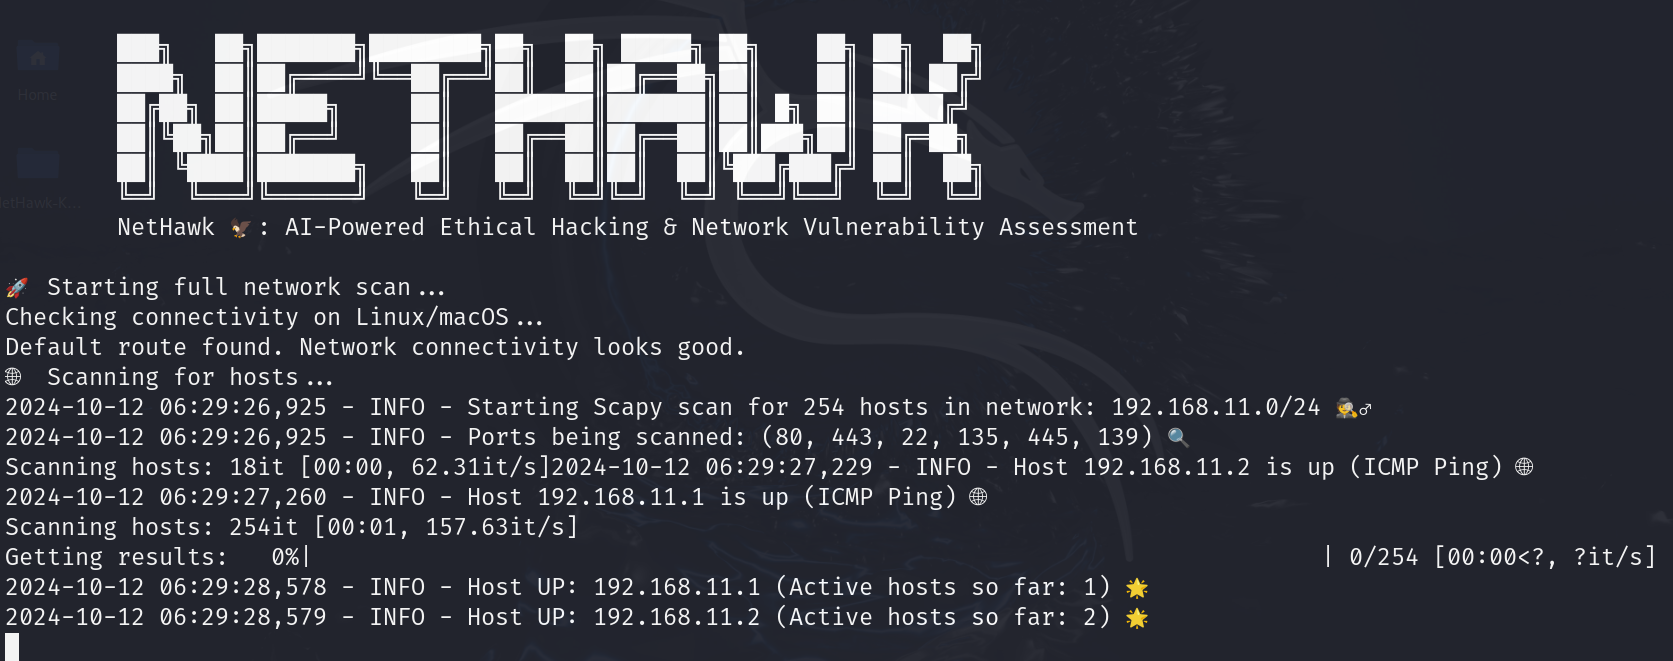
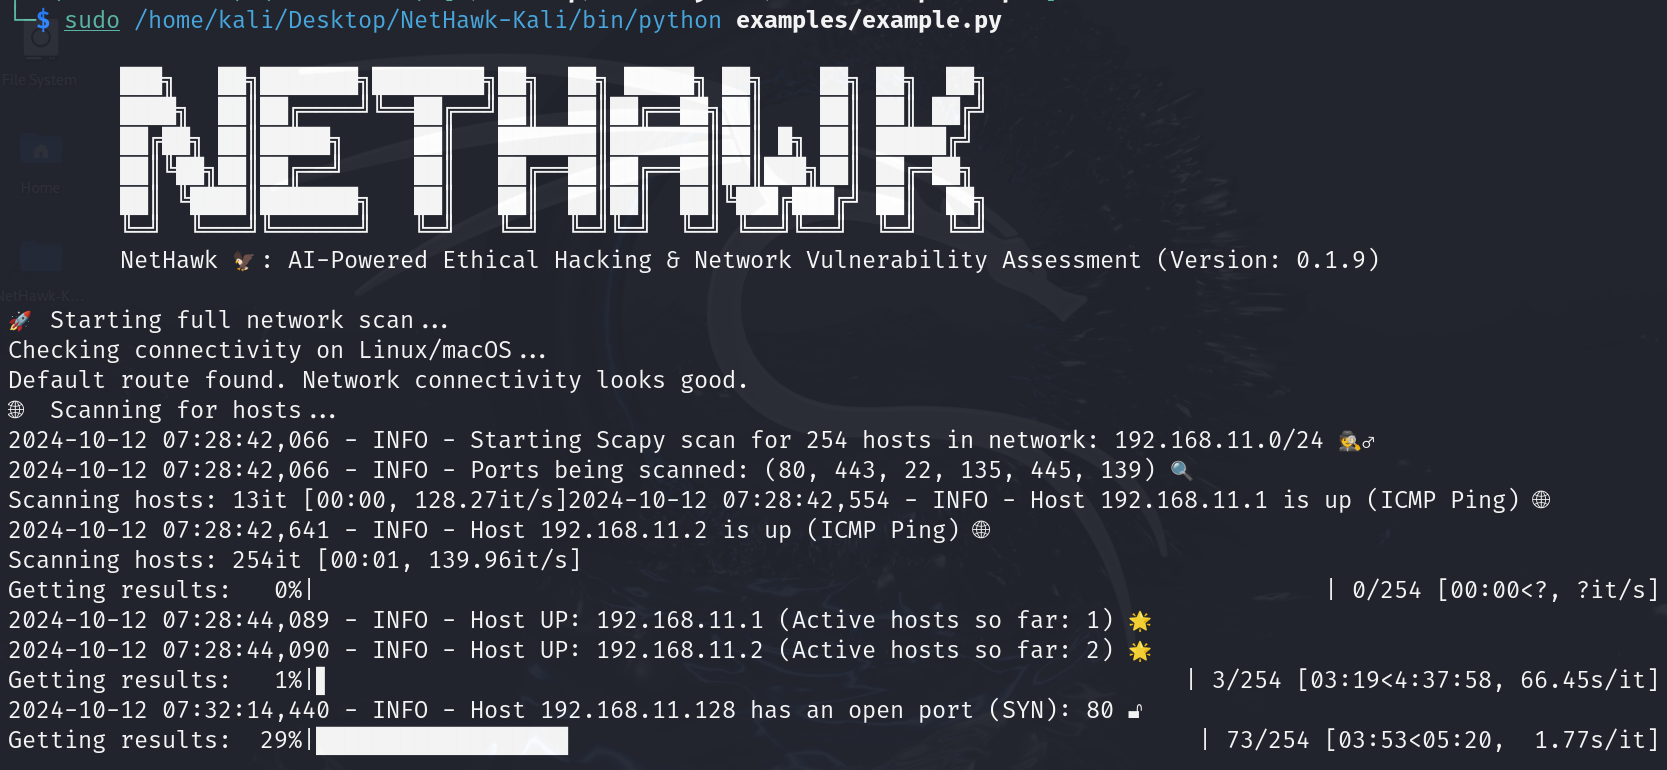
implement several improvements

diff --git a/NetHawkAnalyzer/analyzer.py b/NetHawkAnalyzer/analyzer.py
@@ -1,12 +1,13 @@
 import platform
 import subprocess
-from core.ai_security_analyzer import AISecurityAnalyzer
-from core.host_scanner import HostScanner
-from core.port_scanner import PortScanner
-from core.service_scanner import ServiceScanner
-from core.smb_scanner import SMBScanner
-from utils.printer import print_table
+from NetHawkAnalyzer.core.ai_security_analyzer import AISecurityAnalyzer
+from NetHawkAnalyzer.core.host_scanner import HostScanner
+from NetHawkAnalyzer.core.port_scanner import PortScanner
+from NetHawkAnalyzer.core.service_scanner import ServiceScanner
+from NetHawkAnalyzer.core.smb_scanner import SMBScanner
+from NetHawkAnalyzer.utils.printer import print_table
 from tqdm import tqdm
+from NetHawkAnalyzer import __version__
 
 
 class NetHawkAnalyzer:
@@ -228,13 +229,13 @@ class NetHawkAnalyzer:
         """
         Prints a welcome banner at the start of the program.
         """
-        banner = """
+        banner = f"""
         ███╗   ██╗███████╗████████╗██╗  ██╗ █████╗ ██╗    ██╗ ██╗  ██╗
         ████╗  ██║██╔════╝╚══██╔══╝██║  ██║██╔══██╗██║    ██║ ██║ ██╔╝
         ██╔██╗ ██║█████╗     ██║   ███████║███████║██║ █╗ ██║ █████╔╝ 
         ██║╚██╗██║██╔══╝     ██║   ██╔══██║██╔══██║██║███╗██║ ██╔═██╗ 
         ██║ ╚████║███████╗   ██║   ██║  ██║██║  ██║╚███╔███╔╝ ██║  ██╗
         ╚═╝  ╚═══╝╚══════╝   ╚═╝   ╚═╝  ╚═╝╚═╝  ╚═╝ ╚══╝╚══╝  ╚═╝  ╚═╝
-        NetHawk 🦅: AI-Powered Ethical Hacking & Network Vulnerability Assessment
+        NetHawk 🦅: AI-Powered Ethical Hacking & Network Vulnerability Assessment (Version: {__version__})
         """
         print(banner)

diff --git a/setup.py b/setup.py
@@ -2,7 +2,7 @@ from setuptools import setup, find_packages
 
 setup(
     name='NetHawkAnalyzer',  
-    version='0.1.6',
+    version='0.1.9',
     packages=find_packages(),
     include_package_data=True,
     install_requires=[

diff --git a/NetHawkAnalyzer/__init__.py b/NetHawkAnalyzer/__init__.py
@@ -1,0 +1,1 @@
+__version__ = '0.1.9'
